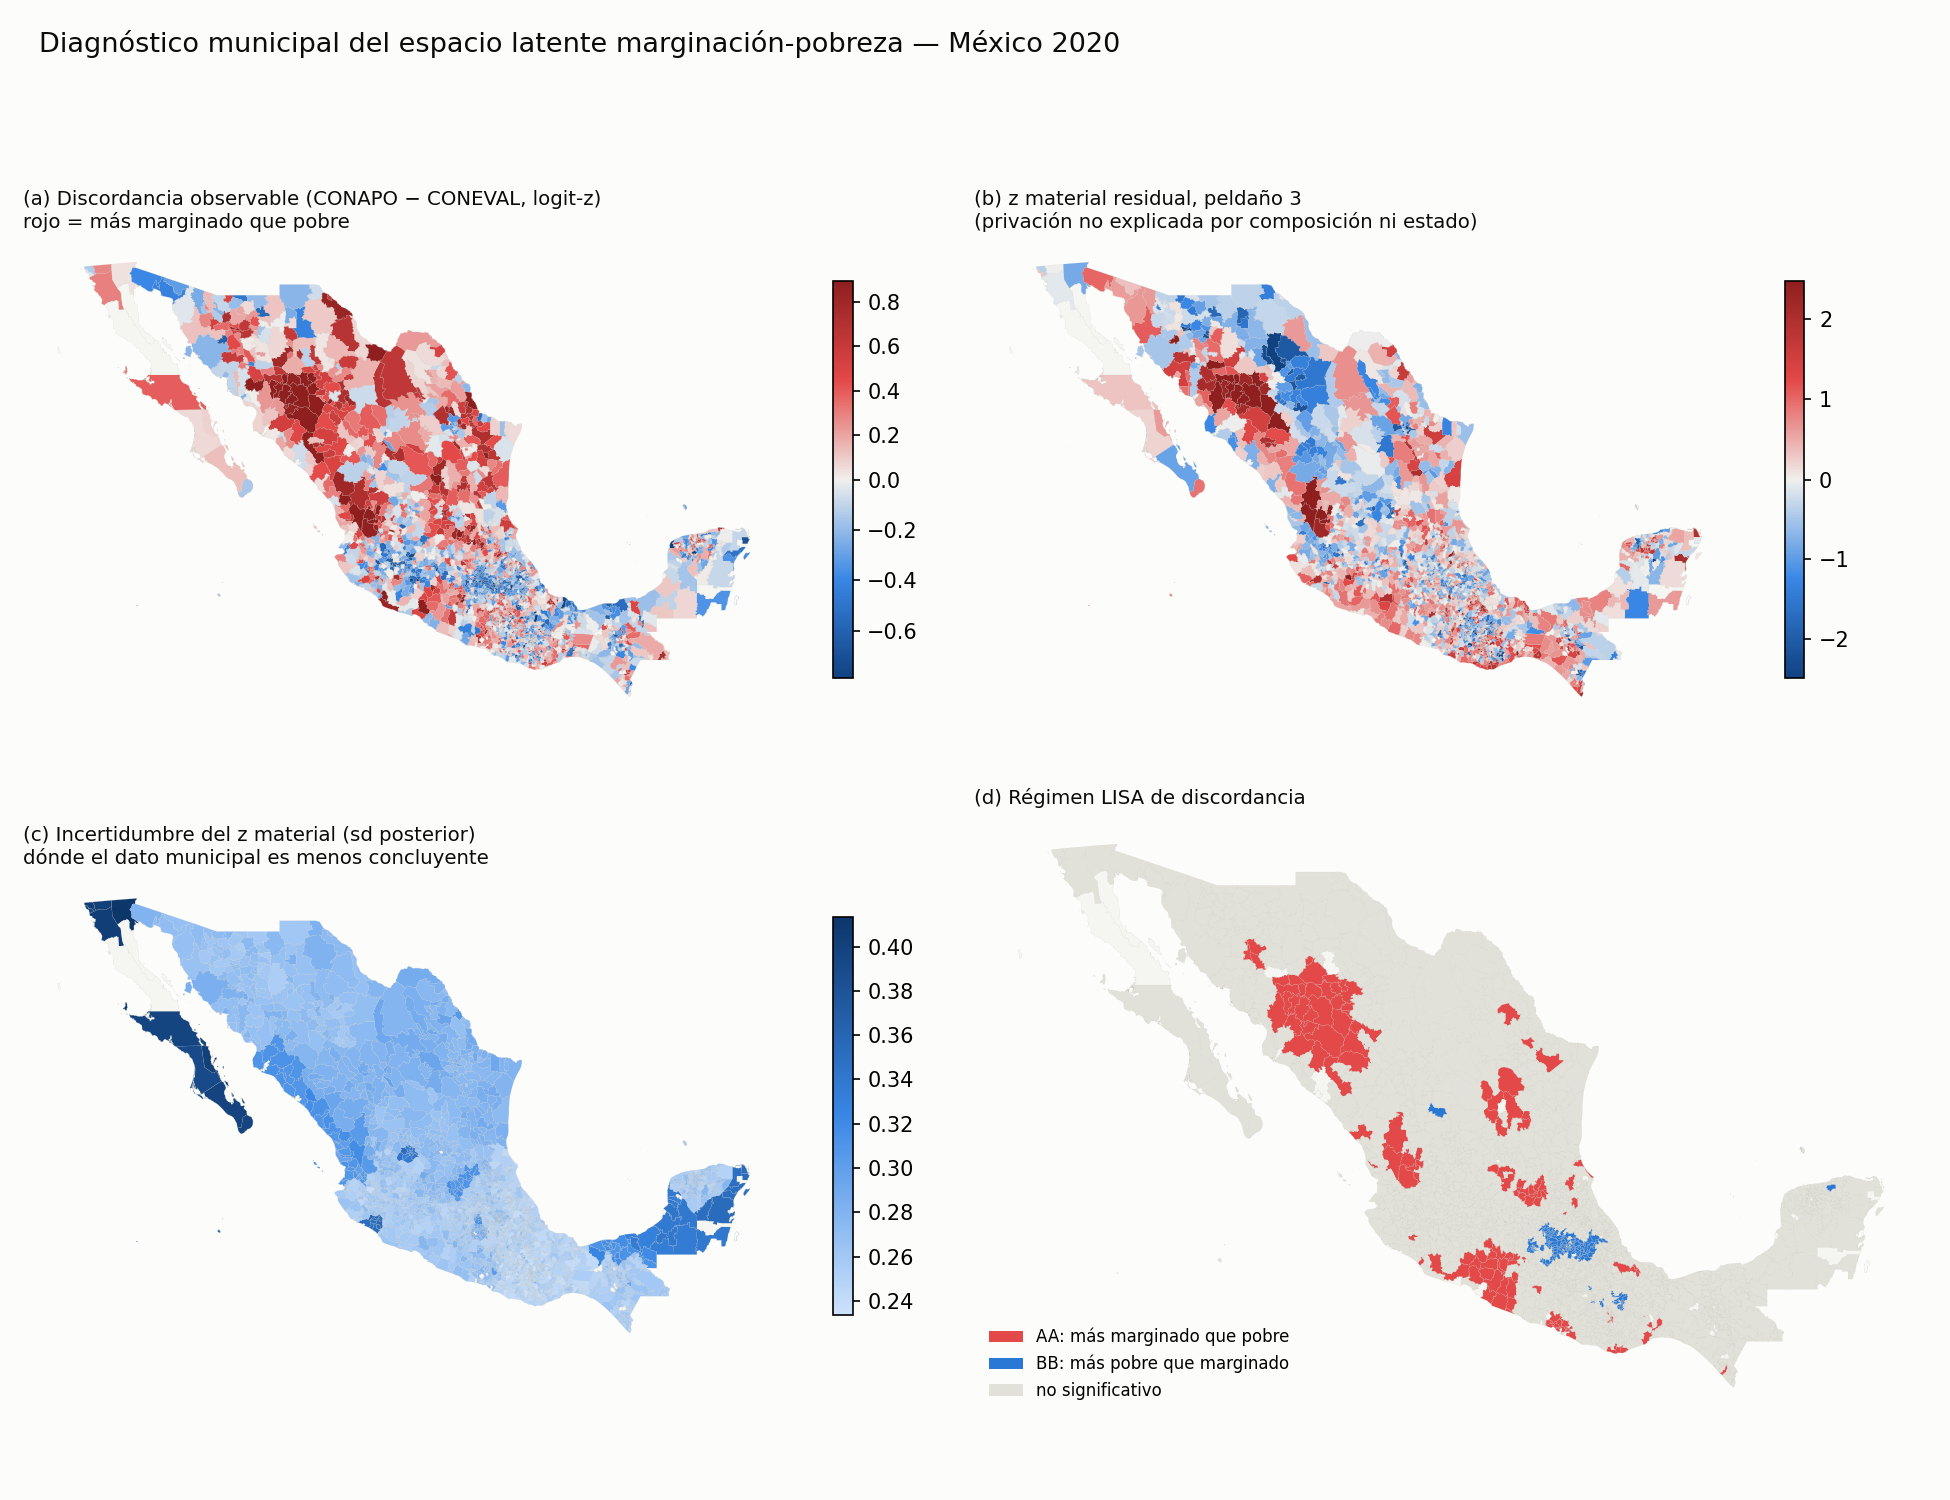
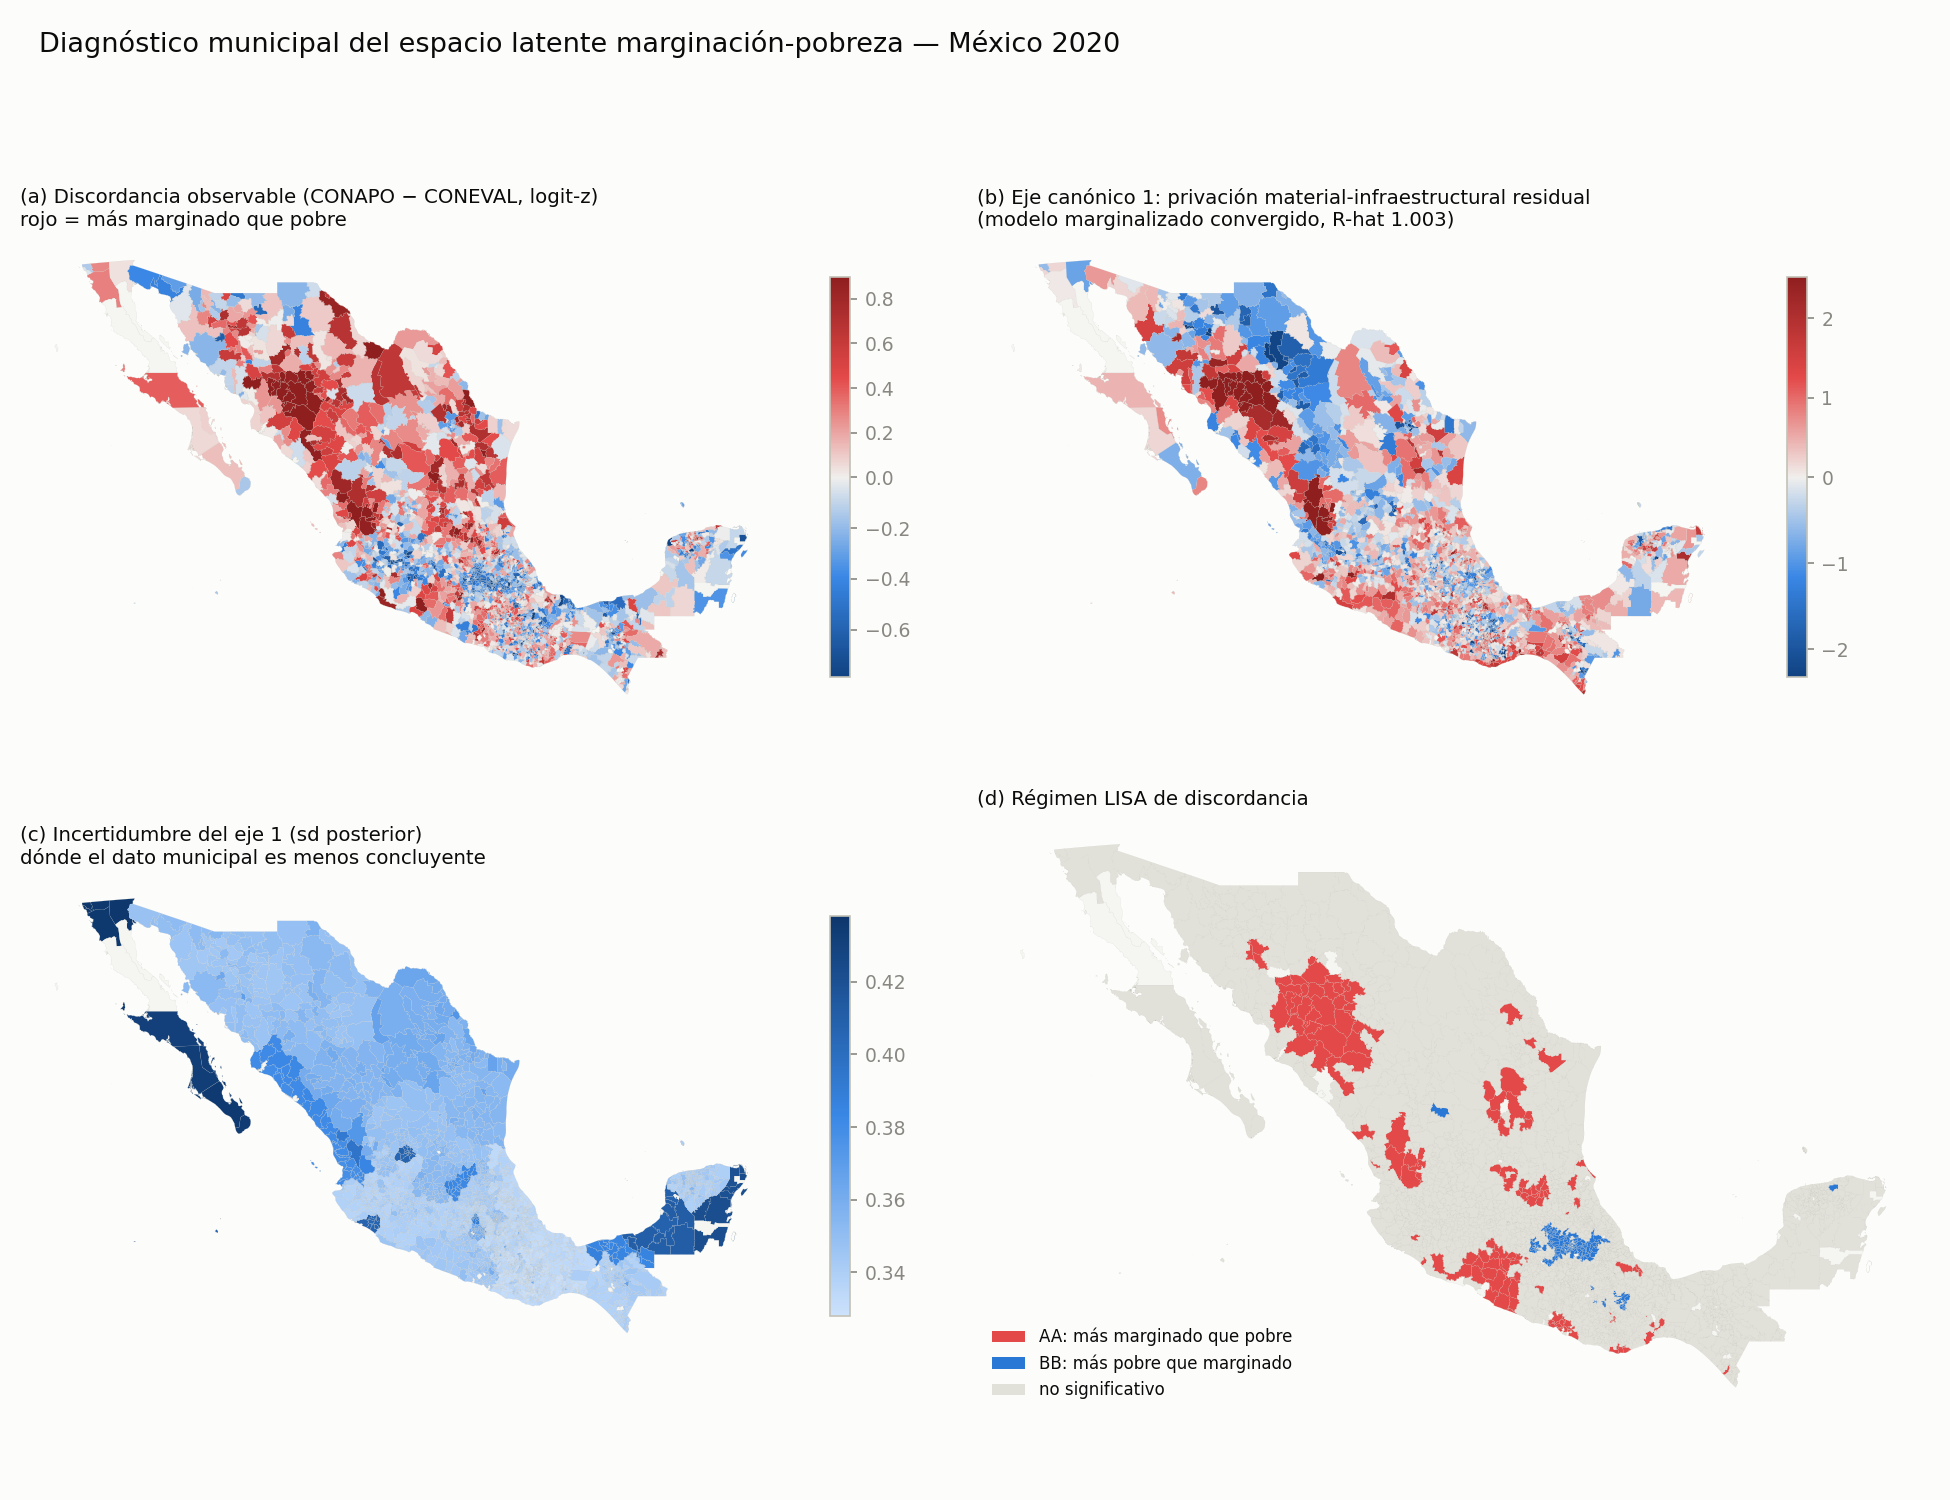
Mapas desbloqueados con ejes canónicos + INSABI listo para disparar
- diagnostico_municipal_v1.parquet ahora trae eje{1,2,3}_{mean,sd} canónicos;
  paneles (b)/(c) del mapa usan el eje 1 convergido (R-hat 1.003)
- gllvm_marginal.py persiste gamma_marginal_rung3.csv (no depender del .nc purgable)
- validacion_insabi.py: gamma de car_salud vs dependencia estatal SP/INSABI
  (PDER_SEGP del censo, dato local) con 5 placebos

diff --git a/scripts/validacion_insabi.py b/scripts/validacion_insabi.py
@@ -1,0 +1,58 @@
+#!/usr/bin/env python
+"""
+Validación externa corta: ¿el efecto estatal de car_salud es la transición Seguro Popular→INSABI?
+
+Hipótesis: el γ_s específico de car_salud (modelo marginalizado convergido) debe asociarse con
+la DEPENDENCIA estatal del sistema en transición — medida como % de población afiliada a
+INSABI/Seguro Popular en el propio Censo 2020 (PDER_SEGP del ITER, dato local) — mucho más que
+los γ_s de indicadores placebo que no responden a esa transición (vivienda, drenaje, educación).
+
+Signo esperado: MÁS dependencia SP/INSABI => MENOS carencia de salud medida (la afiliación
+INSABI cuenta como acceso) => γ_car_salud NEGATIVO. Placebos: sin asociación clara.
+
+Salida: outputs/validacion_insabi.csv + stdout
+"""
+import os, sys, glob
+import numpy as np, pandas as pd
+
+HERE = os.path.dirname(os.path.dirname(os.path.abspath(__file__)))
+OUT, PROC = os.path.join(HERE, "outputs"), os.path.join(HERE, "data", "processed")
+SCRATCH = sys.argv[1] if len(sys.argv) > 1 else "."
+PLACEBOS = ["car_vivienda", "sin_drenaje", "rezago_educ", "sin_basica", "piso_tierra"]
+
+
+def main():
+    it = pd.read_csv(glob.glob(os.path.join(SCRATCH, "iter/conjunto_de_datos_iter_00*.csv"))[0],
+                     usecols=["ENTIDAD", "MUN", "LOC", "POBTOT", "PDER_SEGP", "PDER_SS"],
+                     dtype=str)
+    est = it[(it["MUN"] == "000") & (it["LOC"] == "0000") & (it["ENTIDAD"] != "00")].copy()
+    for c in ["POBTOT", "PDER_SEGP", "PDER_SS"]:
+        est[c] = pd.to_numeric(est[c], errors="coerce")
+    est["dep_segp"] = 100 * est["PDER_SEGP"] / est["POBTOT"]      # % pob afiliada a SP/INSABI
+    est = est.rename(columns={"ENTIDAD": "cve_ent"})[["cve_ent", "dep_segp"]]
+    print(f"dependencia SP/INSABI estatal: media {est.dep_segp.mean():.1f}%, "
+          f"rango [{est.dep_segp.min():.1f}, {est.dep_segp.max():.1f}]")
+
+    gpath = os.path.join(OUT, "gamma_marginal_rung3.csv")
+    if not os.path.exists(gpath):
+        sys.exit("falta gamma_marginal_rung3.csv (re-correr gllvm_marginal --rung 3 --free)")
+    gdf = pd.read_csv(gpath, index_col=0)
+    gam = gdf.values
+    ind = list(gdf.index)
+    cov = pd.read_parquet(os.path.join(PROC, "gllvm_covars.parquet"))
+    ents = sorted(cov["cvegeo"].astype(str).str.zfill(5).str[:2].unique())
+    G = pd.DataFrame(gam.T, columns=ind)
+    G["cve_ent"] = ents
+    d = G.merge(est, on="cve_ent")
+    rows = []
+    for indi in ["car_salud"] + PLACEBOS:
+        r = np.corrcoef(d[indi], d["dep_segp"])[0, 1]
+        rows.append(dict(indicador=indi, corr_gamma_vs_dependencia_SEGP=round(r, 3),
+                         tipo=("HIPÓTESIS" if indi == "car_salud" else "placebo")))
+        print(f"corr(γ_{indi}, dependencia SP/INSABI): {r:+.3f}"
+              f"{'   <- hipótesis' if indi == 'car_salud' else ''}")
+    pd.DataFrame(rows).to_csv(os.path.join(OUT, "validacion_insabi.csv"), index=False)
+
+
+if __name__ == "__main__":
+    main()

diff --git a/scripts/build_diagnostico_municipal.py b/scripts/build_diagnostico_municipal.py
@@ -46,6 +46,10 @@ def main():
     # señal/ruido por factor: |media|/sd — qué tan seguro es que el municipio se desvía
     for f in ["material", "educativo", "monetario"]:
         d[f"{f}_snr"] = d[f"{f}_mean"].abs() / d[f"{f}_sd"]
+    # ejes canónicos del modelo marginalizado convergido (representación oficial desde 2026-07-12)
+    can = pd.read_csv(os.path.join(OUT, "zscores_canonicos_rung3.csv"), dtype={"cvegeo": str})
+    can["cvegeo"] = can["cvegeo"].astype(str).str.zfill(5)
+    d = d.merge(can, on="cvegeo", how="left")
     d.to_parquet(os.path.join(PROC, "diagnostico_municipal_v1.parquet"), index=False)
     print("diagnostico_municipal_v1.parquet:", d.shape)
 

diff --git a/scripts/gllvm_marginal.py b/scripts/gllvm_marginal.py
@@ -149,6 +149,10 @@ def main():
     print(f"divergencias: {div} | BFMI min: {float(np.min(bfmi)):.2f}")
     print(f"ELPD-LOO: {float(az.loo(idata).elpd_loo):.1f}")
     idata.to_netcdf(os.path.join(OUT, f"idata_marginal_rung{a.rung}.nc"))
+    if a.rung == 3:
+        # persistir la matriz gamma (media posterior) — insumo de validaciones sin depender del .nc
+        gm = idata.posterior["gamma"].mean(("chain", "draw")).values
+        pd.DataFrame(gm, index=ind).to_csv(os.path.join(OUT, "gamma_marginal_rung3.csv"))
 
     if a.free:
         # ejes canónicos: eigen-descomposición de E[LamLam'] (convención documentada)

diff --git a/scripts/mapa_diagnostico.py b/scripts/mapa_diagnostico.py
@@ -64,8 +64,8 @@ def main():
     fig, axes = plt.subplots(2, 2, figsize=(13, 10), facecolor=SURF)
     panels = [
         ("discordancia_obs", "(a) Discordancia observable (CONAPO − CONEVAL, logit-z)\nrojo = más marginado que pobre", DIV, True),
-        ("material_mean", "(b) z material residual, peldaño 3\n(privación no explicada por composición ni estado)", DIV, True),
-        ("material_sd", "(c) Incertidumbre del z material (sd posterior)\ndónde el dato municipal es menos concluyente", SEQ, False),
+        ("eje1_mean", "(b) Eje canónico 1: privación material-infraestructural residual\n(modelo marginalizado convergido, R-hat 1.003)", DIV, True),
+        ("eje1_sd", "(c) Incertidumbre del eje 1 (sd posterior)\ndónde el dato municipal es menos concluyente", SEQ, False),
         ("lisa", "(d) Régimen LISA de discordancia", None, False),
     ]
     for ax, (col, title, cmap, diverging) in zip(axes.flat, panels):